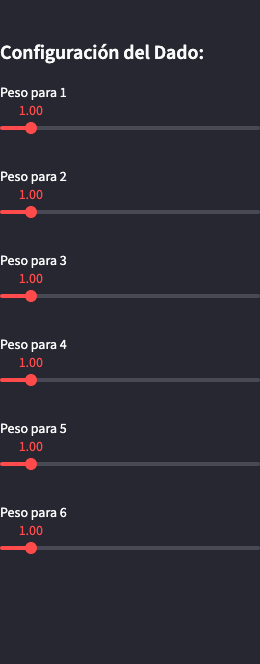
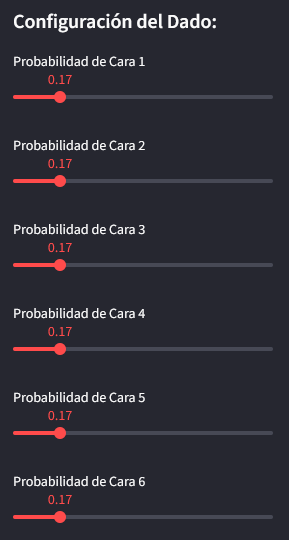
update sliders

Changed region(s): [[0.0, 0.3852, 1.0, 0.9778], [0.0, 0.0296, 1.0, 0.2074], [0.0, 0.237, 1.0, 0.3556]]

diff --git a/frontend/welcome.py b/frontend/welcome.py
@@ -19,12 +19,12 @@ st.header("🛠 ¿Cómo usar los Simuladores?")
 # Paso 1: Configuración
 st.markdown("### 1. Configura tu dado trucado")
 
-col1, col_img, col_text, col4 = st.columns([0.5, 1.5, 2, 0.5])
+col1, col_img, col_text, col4 = st.columns([1.0, 1.0, 2.5, 0.5])
 
 with col_img:
     # Asegúrate de que la ruta de la imagen sea la correcta
     try:
-        st.image("frontend/media/config.png", caption="Panel de Pesos en la Barra Lateral", use_container_width=True)
+        st.image("frontend/media/config.png", caption="Panel de Probabilidades en la Barra Lateral", use_container_width=True)
     except:
         st.info("🖼 *(Aquí va la imagen de tu menú de configuración)*")
 
@@ -32,9 +32,9 @@ with col_text:
     st.write("""
     En la barra lateral izquierda encontrarás los deslizadores de **Configuración del Dado**.
     
-    * **¿Cómo funcionan?**: No son probabilidades estrictas (que suman 1), sino **'pesos'**. 
-    * **Ejemplo**: Si pones todos en `1.0`, el dado es justo. Si pones el número 5 en `10.0` y el resto en `1.0`, la cara 5 será 10 veces más probable de salir que cualquiera de las demás.
-    * **Experimenta!**: Prueba configuraciones extremas para ver cómo afectan los resultados teóricos y simulados.
+    * **¿Cómo funcionan?**: Estas barras te permiten ajustar directamente las **probabilidades** de cada cara del dado. La suma de todas las barras siempre se mantendrá exactamente en 1, así que al mover una, las demás se ajustarán progresivamente para compensar.
+    * **Ejemplo**: Si la probabilidad base es cercana a `0.16` (1/6), el dado será justo. Si aumentas mucho la del número 5 a `0.80`, verás que sacar un 5 se vuelve altamente seguro.
+    * **¡Experimenta!**: Prueba configuraciones extremas para ver cómo afectan los resultados teóricos y simulados.
     """)
 
 # Paso 2: Parámetros

diff --git a/backend/funcs.py b/backend/funcs.py
@@ -43,3 +43,52 @@ def add_footer():
         </div>
     """
     st.markdown(footer, unsafe_allow_html=True)
+
+
+def render_prob_sliders(key_prefix: str) -> np.array:
+    # Initialize session state for these keys if not exists
+    for i in range(1, 7):
+        key = f"{key_prefix}_w{i}"
+        if key not in st.session_state:
+            st.session_state[key] = 1.0 / 6.0
+    
+    # Callback to maintain sum = 1
+    def update_probs(changed_index):
+        changed_key = f"{key_prefix}_w{changed_index}"
+        new_val = st.session_state[changed_key]
+        
+        # calculate sum of others
+        other_keys = [f"{key_prefix}_w{j}" for j in range(1, 7) if j != changed_index]
+        sum_others = sum([st.session_state[k] for k in other_keys])
+        
+        if sum_others == 0:
+            # If all others are 0, distribute equally
+            for k in other_keys:
+                st.session_state[k] = (1.0 - new_val) / 5.0
+        else:
+            # Scale proportionally
+            scale = (1.0 - new_val) / sum_others
+            for k in other_keys:
+                st.session_state[k] *= scale
+                
+    pesos = []
+    for i in range(1, 7):
+        val = st.sidebar.slider(
+            f"Probabilidad de Cara {i}", 
+            min_value=0.0, 
+            max_value=1.0, 
+            value=float(st.session_state[f"{key_prefix}_w{i}"]),
+            step=0.01,
+            key=f"{key_prefix}_w{i}",
+            on_change=update_probs,
+            args=(i,)
+        )
+        pesos.append(val)
+        
+    pesos = np.array(pesos)
+    # just to avoid floating point display issues if needed
+    if pesos.sum() > 0:
+        pesos = pesos / pesos.sum()
+    else:
+        pesos = np.ones(6) / 6.0
+    return pesos

diff --git a/frontend/tlc.py b/frontend/tlc.py
@@ -1,4 +1,4 @@
-from backend.funcs import sim_muestra, stat_poblacion, sacar_prob, add_footer
+from backend.funcs import sim_muestra, stat_poblacion, sacar_prob, add_footer, render_prob_sliders
 
 import numpy as np
 import streamlit as st
@@ -12,11 +12,9 @@ add_footer()
 st.sidebar.header("Configuración del Dado:")
 
 #st.sb.slider(texto, min, max, default)
-pesos = [st.sidebar.slider(f"Peso para {i}", 0.0, 10.0, 1.0) for i in range(1,7)] #4to parametro a key=f["w{i}"]
+pesos = render_prob_sliders("tlc")
 n_dados = st.sidebar.number_input(f"Número de dados por muestra (n):", 0, 100, 30) 
 n_muestras = st.sidebar.number_input(f"Número de muestras:", 1, 40000, 10000)
-
-pesos = np.array(pesos)
 
 media_sim = sim_muestra(pesos, n_dados, n_muestras)
 mu, var = stat_poblacion(pesos)

diff --git a/frontend/lln.py b/frontend/lln.py
@@ -1,4 +1,4 @@
-from backend.funcs import stat_poblacion, add_footer
+from backend.funcs import stat_poblacion, add_footer, render_prob_sliders
 
 import streamlit as st
 import numpy as np
@@ -12,8 +12,7 @@ add_footer()
 # --- SIDEBAR ---
 st.sidebar.header("Configuración del Dado:")
 # Agregamos la key única para lln_w{i} para que no choque con las otras páginas
-pesos = [st.sidebar.slider(f"Peso para {i}", 0.0, 10.0, 1.0, key=f"lln_w{i}") for i in range(1,7)] 
-pesos = np.array(pesos)
+pesos = render_prob_sliders("lln")
 
 # Parámetro principal (Lo ponemos un poco más alto para ver mejor la convergencia)
 n_pasos = st.slider("Número de lanzamientos totales (n):", 50, 10000, 1000, step=50)

diff --git a/frontend/ic.py b/frontend/ic.py
@@ -1,4 +1,4 @@
-from backend.funcs import sim_muestra, stat_poblacion, sacar_prob, add_footer
+from backend.funcs import sim_muestra, stat_poblacion, sacar_prob, add_footer, render_prob_sliders
 
 import numpy as np
 import streamlit as st
@@ -10,8 +10,7 @@ st.markdown("<h1 style='text-align: center;'>Intervalos de Confianza</h1>", unsa
 add_footer()
 
 st.sidebar.header("Configuración del Dado:")
-pesos = [st.sidebar.slider(f"Peso para {i}", 0.0, 10.0, 1.0, key=f"ic_w{i}") for i in range(1,7)] 
-pesos = np.array(pesos)
+pesos = render_prob_sliders("ic")
 
 st.sidebar.header("Parámetros del Intervalo:")
 n_dados = st.sidebar.number_input("Tamaño de la muestra (n):", 2, 500, 30) 

diff --git a/frontend/estimador.py b/frontend/estimador.py
@@ -1,4 +1,4 @@
-from backend.funcs import sim_muestra, stat_poblacion, add_footer
+from backend.funcs import sim_muestra, stat_poblacion, add_footer, render_prob_sliders
 
 import numpy as np
 import streamlit as st
@@ -9,8 +9,7 @@ st.markdown("<h1 style='text-align: center;'>Estimando, Estimador y Estimado</h1
 add_footer()
 
 st.sidebar.header("Configuración del Dado:")
-pesos = [st.sidebar.slider(f"Peso para {i}", 0.0, 10.0, 1.0, key=f"est_w{i}") for i in range(1, 7)]
-pesos = np.array(pesos)
+pesos = render_prob_sliders("est")
 
 st.sidebar.header("Parámetro de la Muestra:")
 n_dados = st.sidebar.number_input("Tamaño de una sola muestra (n):", 2, 500, 100)
